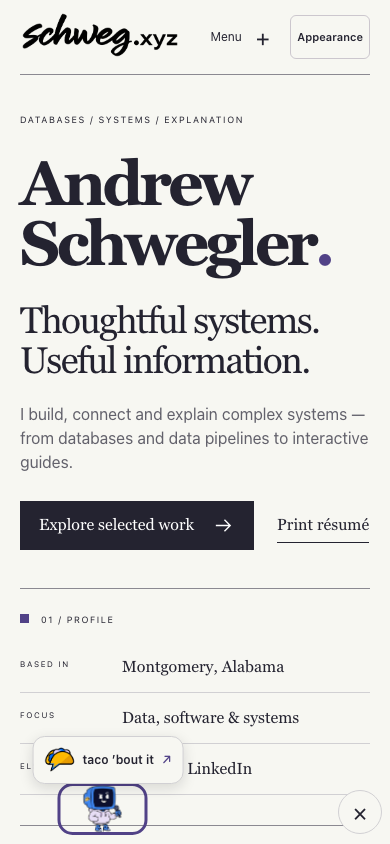
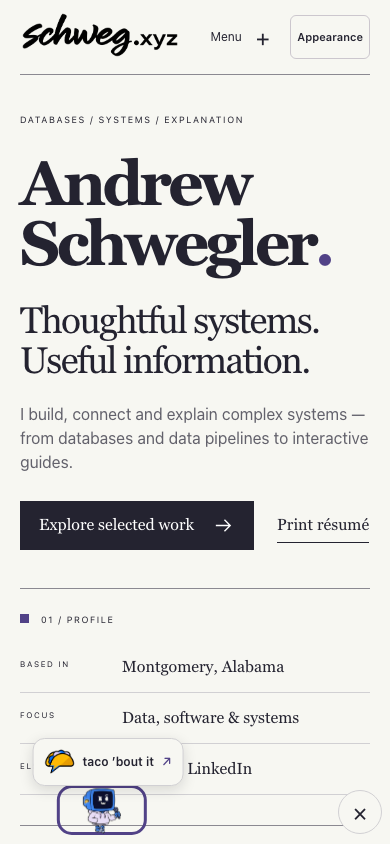
Keep the parade visible above controls and refine cutout gait

Changed region(s): [[0.1231, 0.8626, 0.4308, 0.9858]]

diff --git a/assets/js/mascot-parade.js b/assets/js/mascot-parade.js
@@ -3,6 +3,30 @@ const asset = (name) => new URL(`../parade/${name}`, import.meta.url).href;
 const brand = (name) => new URL(`../brand/${name}`, import.meta.url).href;
 export const START_DELAY = 2000;
 export const PREFERENCE_KEY = "schweg-mascot-parade:v1";
+export function chooseLane(bottom, height, rects, maxLift) {
+  const clear = (floor, size) =>
+    rects.every(
+      (rect) => floor <= rect.top - 6 || floor - size - 2 >= rect.bottom + 6,
+    );
+  const floors = [...new Set([bottom, ...rects.map((rect) => rect.top - 8)])]
+    .filter((floor) => floor <= bottom && floor >= bottom - maxLift)
+    .sort((a, b) => b - a);
+  for (const floor of floors) {
+    if (clear(floor, height)) return { bottom: floor, height };
+    const nearby = rects.filter(
+      (rect) => rect.top < floor && rect.bottom > floor - height - 10,
+    );
+    const size = nearby.length
+      ? Math.min(
+          height,
+          floor - Math.max(...nearby.map((rect) => rect.bottom)) - 10,
+        )
+      : height;
+    if (size >= 44 && clear(floor, size))
+      return { bottom: floor, height: size };
+  }
+  return { bottom, height };
+}
 export const mascots = [
   {
     id: "telly",
@@ -13,19 +37,23 @@ export const mascots = [
     logo: asset("tacobout-logo.png"),
     width: 508,
     height: 599,
-    body: "polygon(0 0,100% 0,100% 84%,0 84%)",
+    body: "polygon(0 0,100% 0,100% 82.5%,0 82.5%)",
     legs: [
       {
-        hip: "38% 83%",
+        hip: "38% 82.4%",
         knee: "38% 88%",
-        upper: "polygon(33% 83%,44% 83%,44% 89%,33% 89%)",
-        lower: "polygon(29% 88%,47% 88%,50% 100%,29% 100%)",
+        upper:
+          "polygon(33.661% 81.970%,43.898% 81.970%,43.898% 86.144%,45.669% 86.477%,45.669% 89.149%,32.480% 89.149%)",
+        lower:
+          "polygon(30.315% 87.646%,45.669% 87.646%,49.213% 90.484%,50.984% 92.654%,50.984% 95.326%,50.000% 96.828%,48.622% 98.497%,28.543% 98.497%)",
       },
       {
-        hip: "55% 83%",
+        hip: "55% 82.4%",
         knee: "55% 87%",
-        upper: "polygon(50% 83%,61% 83%,61% 88%,50% 88%)",
-        lower: "polygon(49% 87%,62% 87%,72% 100%,48% 100%)",
+        upper:
+          "polygon(50.787% 81.970%,60.236% 81.970%,60.236% 85.643%,62.598% 86.311%,62.598% 88.147%,50.000% 88.147%)",
+        lower:
+          "polygon(49.803% 86.477%,70.866% 86.477%,70.866% 97.329%,50.787% 97.329%,50.787% 92.154%,48.819% 90.150%)",
       },
     ],
   },
@@ -41,16 +69,16 @@ export const mascots = [
     body: "polygon(0 0,100% 0,100% 84%,0 84%)",
     legs: [
       {
-        hip: "36% 83%",
-        knee: "36% 89%",
-        upper: "polygon(31% 83%,43% 83%,43% 90%,31% 90%)",
-        lower: "polygon(14% 89%,45% 89%,47% 100%,14% 100%)",
+        hip: "40% 84%",
+        knee: "40% 89%",
+        upper: "polygon(33% 83%,47% 83%,47% 90%,31% 90%)",
+        lower: "polygon(20% 89%,49% 89%,49% 100%,20% 100%)",
       },
       {
         hip: "60% 83%",
         knee: "62% 89%",
-        upper: "polygon(55% 83%,67% 83%,68% 90%,55% 90%)",
-        lower: "polygon(52% 89%,70% 89%,78% 100%,52% 100%)",
+        upper: "polygon(53% 83%,68% 83%,68% 90%,53% 90%)",
+        lower: "polygon(51% 89%,78% 89%,78% 100%,51% 100%)",
       },
     ],
   },
@@ -73,13 +101,14 @@ export const mascots = [
         hip: "47% 82%",
         knee: "46% 88%",
         upper: "polygon(43% 81%,54% 81%,52% 89%,41% 89%)",
-        lower: "polygon(39% 87%,51% 87%,51% 100%,26% 100%,28% 94%)",
+        lower:
+          "polygon(41.295% 86.879%,54.018% 86.879%,54.018% 100.000%,25.000% 100.000%,25.000% 93.042%,36.384% 89.463%)",
       },
       {
         hip: "63% 82%",
         knee: "65% 88%",
         upper: "polygon(58% 81%,69% 81%,71% 89%,60% 89%)",
-        lower: "polygon(59% 87%,71% 87%,87% 100%,56% 100%)",
+        lower: "polygon(56% 87%,90% 87%,90% 100%,56% 100%)",
       },
     ],
   },
@@ -147,7 +176,7 @@ export function createRig(mascot) {
     const lower = part("parade-shin", leg.lower);
     lower.style.transformOrigin = leg.knee;
     upper.append(lower);
-    rig.append(upper);
+    rig.prepend(upper);
   });
   rig.append(part("parade-body", mascot.body));
   if (mascot.arm) {
@@ -263,7 +292,9 @@ export function mountParade() {
   const dismiss = () => {
     dismissed = true;
     if (region.contains(document.activeElement)) {
-      window.SchwegAppearance?.disclosure.focus({ preventScroll: true });
+      window.SchwegAppearance?.disclosure.focus({
+        preventScroll: !region.classList.contains("parade-static"),
+      });
     }
     stop();
   };
@@ -274,10 +305,10 @@ export function mountParade() {
       dismiss();
     }
   });
-  region.addEventListener("pointerenter", (event) => {
+  list.addEventListener("pointerenter", (event) => {
     if (event.pointerType !== "touch") pause("hover", true);
   });
-  region.addEventListener("pointerleave", () => pause("hover", false));
+  list.addEventListener("pointerleave", () => pause("hover", false));
   region.addEventListener("focusin", () => pause("focus", true));
   region.addEventListener("focusout", (event) => {
     if (!region.contains(event.relatedTarget)) pause("focus", false);
@@ -331,6 +362,9 @@ export function mountParade() {
       parseFloat(style.getPropertyValue("--parade-safe-left")) || 0;
     const safeRight =
       parseFloat(style.getPropertyValue("--parade-safe-right")) || 0;
+    const safeBottom =
+      parseFloat(style.getPropertyValue("--parade-safe-bottom")) || 0;
+    const lift = parseFloat(style.getPropertyValue("--parade-lane-lift")) || 0;
     const size = width <= 600 ? 88 : 116;
     const gap = width <= 600 ? 160 : 198;
     return {
@@ -339,12 +373,23 @@ export function mountParade() {
       gap,
       safeLeft,
       safeRight,
+      baseBottom: innerHeight - 10 - safeBottom,
+      bottom: innerHeight - 10 - safeBottom - lift,
       speed: width <= 600 ? 42 : 60,
     };
   };
   const tick = (now) => {
-    const { width, size, gap, safeLeft, safeRight, speed } = layout();
-    const bottom = links[0].getBoundingClientRect().bottom;
+    const {
+      width,
+      size,
+      gap,
+      safeLeft,
+      safeRight,
+      speed,
+      baseBottom,
+      bottom: oldBottom,
+    } = layout();
+    let bottom = oldBottom;
     if (layoutDirty) {
       protectedRects = [
         ...document.querySelectorAll(
@@ -362,19 +407,25 @@ export function mountParade() {
           (rect) =>
             rect.width &&
             rect.height &&
+            rect.right > 0 &&
+            rect.left < width &&
             rect.bottom > 0 &&
             rect.top < innerHeight,
         );
       const defaultHeight = width <= 600 ? 78 : 108;
-      // A compact lane below low page links keeps every character visible on phones.
-      const lowLinks = protectedRects.filter(
-        (rect) =>
-          rect.bottom > bottom - defaultHeight && rect.bottom < bottom - 52,
+      // Try a compact bottom lane, then a clear band just above low controls.
+      const lane = chooseLane(
+        baseBottom,
+        defaultHeight,
+        protectedRects,
+        Math.min(140, innerHeight * 0.3),
       );
-      const available = lowLinks.length
-        ? bottom - Math.max(...lowLinks.map((rect) => rect.bottom)) - 8
-        : defaultHeight;
-      const rigHeight = Math.max(44, Math.min(defaultHeight, available));
+      const rigHeight = lane.height;
+      bottom = lane.bottom;
+      region.style.setProperty(
+        "--parade-lane-lift",
+        `${baseBottom - bottom}px`,
+      );
       region.style.setProperty("--mascot-height", `${rigHeight}px`);
       region.style.setProperty("--mascot-link-height", `${rigHeight + 2}px`);
       region.style.setProperty(
@@ -431,6 +482,7 @@ export function mountParade() {
       "--mascot-height",
       "--mascot-link-height",
       "--gait-scale",
+      "--parade-lane-lift",
     ])
       region.style.removeProperty(property);
     links.forEach((link) => {

diff --git a/assets/parade.css b/assets/parade.css
@@ -3,10 +3,13 @@
   --mascot-height: 108px;
   --parade-safe-left: env(safe-area-inset-left, 0px);
   --parade-safe-right: env(safe-area-inset-right, 0px);
+  --parade-safe-bottom: env(safe-area-inset-bottom, 0px);
   position: fixed;
   z-index: 80;
   inset: auto 0 0;
-  height: calc(190px + env(safe-area-inset-bottom, 0px));
+  height: calc(
+    190px + var(--parade-lane-lift, 0px) + env(safe-area-inset-bottom, 0px)
+  );
   overflow: clip;
   pointer-events: none;
   color: var(--ink);
@@ -20,7 +23,9 @@
 .parade-mascot {
   position: absolute;
   left: 0;
-  bottom: calc(10px + env(safe-area-inset-bottom, 0px));
+  bottom: calc(
+    10px + var(--parade-lane-lift, 0px) + env(safe-area-inset-bottom, 0px)
+  );
   width: 116px;
   height: var(--mascot-link-height, 124px);
   display: flex;
@@ -38,7 +43,7 @@
   visibility: hidden;
 }
 .parade-rig {
-  --gait: calc(600ms * var(--gait-scale, 1));
+  --gait: calc(470ms * var(--gait-scale, 1));
   position: relative;
   display: block;
   height: var(--mascot-height);
@@ -73,7 +78,7 @@
   --gait: calc(550ms * var(--gait-scale, 1));
 }
 .parade-rig--andrew {
-  --gait: calc(860ms * var(--gait-scale, 1));
+  --gait: calc(810ms * var(--gait-scale, 1));
 }
 .parade-rig--andrew .parade-leg {
   animation-name: parade-long-stride;
@@ -308,7 +313,9 @@ html[data-mascot-parade="walking"] .seasonal-overlay {
   .mascot-parade {
     --mascot-height: 78px;
     --gait-scale: 1.2;
-    height: calc(156px + env(safe-area-inset-bottom, 0px));
+    height: calc(
+      156px + var(--parade-lane-lift, 0px) + env(safe-area-inset-bottom, 0px)
+    );
   }
   .parade-mascot {
     width: 88px;

diff --git a/tests/browser/test_mascot_parade.py b/tests/browser/test_mascot_parade.py
@@ -9,6 +9,7 @@ def freeze(page, month=11, day=2):
     now = datetime(2026, month, day, tzinfo=timezone.utc)
     page.clock.install(time=now)
     page.clock.pause_at(now)
+    page.mouse.move(0, 0)
 
 
 def appearance(page):
@@ -232,6 +233,7 @@ def test_live_reduced_motion_and_meet_apps_keyboard_path(clean_page, site_url):
     page.clock.run_for(60000)
     expect(page.locator('.parade-static')).to_be_visible()
     page.get_by_role('button', name='Dismiss mascot parade').click()
+    expect(page.get_by_role('button', name='Appearance', exact=True)).to_be_in_viewport()
     appearance(page)
     page.get_by_role('button', name='Meet the apps', exact=True).focus()
     page.keyboard.press('Enter')
@@ -276,7 +278,7 @@ def test_protected_page_controls_remain_selectable(clean_page, site_url):
     page.goto(site_url + '/')
     page.clock.run_for(4500)
     telly = page.locator('[data-mascot="telly"]')
-    # Put an actual page button in the path; the sprite yields its hit area.
+    # Put an actual page button in the path; the lane moves above it.
     page.evaluate('''() => {
       const button = document.createElement('button'); button.id = 'protected-action';
       button.textContent = 'Page action'; button.style.position = 'fixed';
@@ -285,6 +287,41 @@ def test_protected_page_controls_remain_selectable(clean_page, site_url):
       document.querySelector('main').append(button); dispatchEvent(new Event('resize'));
     }''')
     page.clock.run_for(50)
-    expect(telly).to_be_hidden()
+    expect(telly).to_be_visible()
+    assert telly.bounding_box()['y'] + telly.bounding_box()['height'] < page.locator('#protected-action').bounding_box()['y']
     page.get_by_role('button', name='Page action', exact=True).click()
     expect(page.get_by_role('button', name='Selected', exact=True)).to_be_visible()
+
+
+@pytest.mark.parametrize('width,height', [(320,568),(720,450)])
+def test_full_width_bottom_controls_leave_a_visible_lane(clean_page, site_url, width, height):
+    page=clean_page
+    freeze(page)
+    page.set_viewport_size({'width':width,'height':height})
+    page.goto(site_url+'/')
+    page.evaluate('''() => {
+      const button=document.createElement('button');button.id='bottom-navigation';button.textContent='Bottom navigation';
+      Object.assign(button.style,{position:'fixed',bottom:'0',left:'0',width:'100%',height:'100px'});
+      document.querySelector('main').append(button);
+    }''')
+    page.clock.run_for(2000)
+    seen=set()
+    for _ in range(48):
+        page.clock.run_for(500)
+        for link in page.locator('.parade-mascot[data-visible="true"]').all():
+            if link.evaluate('(e)=>e.inert'):continue
+            seen.add(link.get_attribute('data-mascot'))
+            box=link.bounding_box()
+            assert box['y']+box['height'] < height-100
+    assert seen == {'telly','facet','hitch','andrew'}
+    page.get_by_role('button',name='Bottom navigation',exact=True).click()
+
+
+def test_hovering_stationary_dismiss_does_not_prevent_entry(clean_page, site_url):
+    page=clean_page
+    freeze(page)
+    page.goto(site_url+'/')
+    page.clock.run_for(2000)
+    page.get_by_role('button',name='Dismiss mascot parade').hover()
+    page.clock.run_for(3500)
+    assert page.locator('[data-mascot="telly"]').bounding_box()['x'] > 8

diff --git a/docs/mascot-parade.md b/docs/mascot-parade.md
@@ -69,4 +69,33 @@ established WebKit runtime described in `appearance-webkit-qa.md`.
 
 Browser plugin unavailable in this environment; isolated headless Playwright
 processes avoid interfering with other Mac browser tasks. Physical iPhone/iPad
-touch and browser zoom remain manual follow-up checks.
+touch remains a manual follow-up check.
+
+## Follow-up QA
+
+The first Linux CI run found that the cast could stay hidden at 320 × 568 when
+page controls occupied the bottom lane. The lane now tries a compact band at
+the bottom, then a clear band above those controls. Hovering the stationary
+dismiss button also no longer holds the cast offscreen. Regression checks
+cover full-width bottom navigation at 320 × 568 and 720 × 450, plus dismiss
+hover before entry.
+
+Native Chromium browser zoom was set to 200% through the browser's zoom API
+in a fresh, isolated profile. A 1440 × 900 window becomes a 720 × 450 CSS
+viewport; an 820 × 1180 window becomes 410 × 590. All four mascots, label
+bounds, keyboard access, the static list, and dismissal were checked with no
+horizontal overflow or CSP errors. Closing the static list scrolls its returned
+Appearance focus into view.
+
+Sixteen walking phases were inspected at 300px character height against the
+original PNGs. Cropped shoe outlines in Telly, Facet, and Hitch were corrected,
+front/back part ordering was improved, and Telly/Andrew cadence was shortened
+to better match travel distance. Faces and the microphone remain rigid original
+pixels; the held microphone does not swing or distort.
+
+This remains a cutout gait from front/three-quarter artwork. At enlarged sizes,
+small join changes and some foot sliding remain visible: the soles are not
+locked to world coordinates, and the original overlapping limbs contain no
+independent hidden-heel artwork. It should be judged from the motion proof,
+not represented as a fully drawn walk cycle. Eliminating those limitations
+would require additional approved walking frames or layered limb art.
